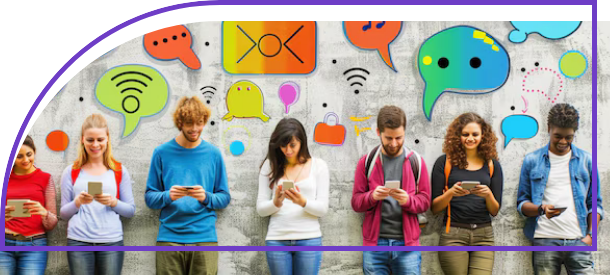
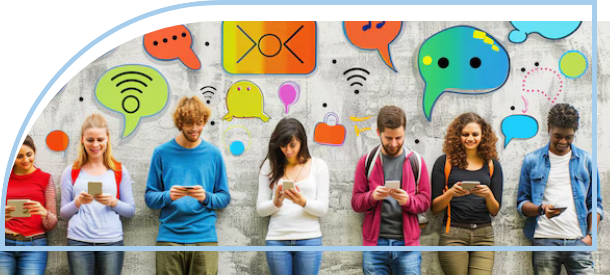
[ADD] Tema 3

Changed region(s): [[0.0, 0.0, 0.9967, 0.9309], [0.0311, 0.2036, 0.1246, 0.4945]]

diff --git a/src/views/Tema3.vue b/src/views/Tema3.vue
@@ -25,28 +25,28 @@
               img(src='@/assets/curso/temas/t3/2.png')
 
 
-          .tarjeta.color-secundario.p-3(x="15%" y="54%" numero="1")
+          .tarjeta.bg-color-3.p-3(x="14.5%" y="53%" numero="1")
             p.mb-0 #[b 1. Emisor]
             p.mb-0.titulo-cus-4 Quien origina el mensaje (por ejemplo, el asesor comercial).
-          .tarjeta.color-secundario.p-3(x="25%" y="54%" numero="2")
+          .tarjeta.bg-color-3.p-3(x="24.3%" y="53%" numero="2")
             p.mb-0 #[b 2. Receptor]
             p.mb-0.titulo-cus-4 Quien recibe e interpreta el mensaje (el cliente, el compañero de trabajo, el jefe).
-          .tarjeta.color-secundario.p-3(x="35%" y="54%" numero="3")
+          .tarjeta.bg-color-3.p-3(x="34.7%" y="53%" numero="3")
             p.mb-0 #[b 3. Mensaje]
             p.mb-0.titulo-cus-4 La información que se quiere transmitir (una propuesta de ventas, una explicación de producto, una recomendación).
-          .tarjeta.color-secundario.p-3(x="45%" y="54%" numero="4")
+          .tarjeta.bg-color-3.p-3(x="45%" y="53%" numero="4")
             p.mb-0 #[b 4. Canal]
             p.mb-0.titulo-cus-4 Medio a través del cual circula el mensaje (correo electrónico, llamada, reunión presencial, chat).
-          .tarjeta.color-secundario.p-3(x="55%" y="54%" numero="5")
+          .tarjeta.bg-color-3.p-3(x="55%" y="53%" numero="5")
             p.mb-0 #[b 5. Código]
             p.mb-0.titulo-cus-4 Sistema de signos utilizados para expresarse (lenguaje verbal, gestos, imágenes, símbolos).
-          .tarjeta.color-secundario.p-3(x="65%" y="54%" numero="6")
+          .tarjeta.bg-color-3.p-3(x="65.5%" y="53%" numero="6")
             p.mb-0 #[b 6. Contexto]
             p.mb-0.titulo-cus-4 Situación en la que ocurre la comunicación (reunión de ventas, capacitación, negociación).
-          .tarjeta.color-secundario.p-3(x="75%" y="54%" numero="7")
+          .tarjeta.bg-color-3.p-3(x="75.8%" y="53%" numero="7")
             p.mb-0 #[b 7. Retroalimentación]
             p.mb-0.titulo-cus-4 Respuesta que da el receptor, indicando si comprendió o no el mensaje.
-          .tarjeta.color-secundario.p-3(x="85%" y="54%" numero="8")
+          .tarjeta.bg-color-3.p-3(x="85.5%" y="53%" numero="8")
             p.mb-0 #[b 8. Ruido]
             p.mb-0.titulo-cus-4 Cualquier interferencia que distorsiona la comunicación (falta de atención, distracciones, problemas técnicos).
 
@@ -100,22 +100,22 @@
         .col-sm-12.col-lg-7
           ul.lista-ul--color.lista-ul--separador
             li.d-flex
-              i.fas.fa-check-circle.icon-list
+              i.fas.fa-check-circle.icon-color-2
               p.mb-0 #[b Informativa:] transmitir datos sobre productos, servicios o procesos (ej. especificaciones técnicas).
             li.d-flex
-              i.fas.fa-check-circle.icon-list
+              i.fas.fa-check-circle.icon-color-2
               p.mb-0 #[b Persuasiva:] influir en el cliente para motivar la compra o la fidelización.
             li.d-flex
-              i.fas.fa-check-circle.icon-list
+              i.fas.fa-check-circle.icon-color-2
               p.mb-0 #[b Relacional:] construir y fortalecer vínculos de confianza con clientes y colegas.
             li.d-flex
-              i.fas.fa-check-circle.icon-list
+              i.fas.fa-check-circle.icon-color-2
               p.mb-0 #[b Reguladora:] establecer normas, acuerdos y procedimientos de trabajo o negociación.
             li.d-flex
-              i.fas.fa-check-circle.icon-list
+              i.fas.fa-check-circle.icon-color-2
               p.mb-0 #[b Formativa:] capacitar, instruir o educar a clientes y compañeros sobre el uso de un producto o servicio.
             li.d-flex
-              i.fas.fa-check-circle.icon-list
+              i.fas.fa-check-circle.icon-color-2
               p.mb-0 #[b De retroalimentación:] recibir opiniones, sugerencias o reclamos para mejorar el servicio.
 
 
@@ -186,16 +186,16 @@
       p.mb-3(data-aos="fade-right") Estos medios se clasifican en:
       .row.justify-content-center.mb-0(data-aos='fade-right')
         .col-sm-12.col-md-6.col-lg-3
-          .bg-color-6.p-4.br-1.mb-cus
+          .bg-color-9.p-4.br-1.mb-cus
             h3.text-white.mb-0.text-center Medios audiovisuales
         .col-sm-12.col-md-6.col-lg-3
-          .bg-color-6.p-4.br-1.mb-cus
+          .bg-color-9.p-4.br-1.mb-cus
             h3.text-white.mb-0.text-center Medios radiofónicos
         .col-sm-12.col-md-6.col-lg-3
-          .bg-color-6.p-4.br-1.mb-cus
+          .bg-color-9.p-4.br-1.mb-cus
             h3.text-white.mb-0.text-center Medios impresos
         .col-sm-12.col-md-6.col-lg-3
-          .bg-color-6.p-4.br-1
+          .bg-color-9.p-4.br-1
             h3.text-white.mb-0.text-center Medios alternativos
 
   </template>

diff --git a/src/styles/_custom.sass b/src/styles/_custom.sass
@@ -102,7 +102,7 @@ figcaption
     .crd_hover_txt--body   
       transition: all 0.5s cubic-bezier(0.42, 0, 0.58, 1) 
       transform: translateY(0)
-      background-color: #BE79CA
+      background-color: #E5EFD6
       background-repeat: no-repeat
       background-size: cover
       h4 
@@ -115,7 +115,7 @@ figcaption
     transform: translateY(calc( 100% - 3.85rem ))
     background-color: $color-acento-botones
     h4
-      color: #FFF
+      color: $color-sistema-texto
   @media (min-width:1200px) and (max-width:1400px)  
     .crd_hover_txt--body
       p
@@ -204,6 +204,8 @@ figcaption
     background-color: #ACD5F6
   &-8
     background-color: $color-secundario
+  &-9
+    background-color: $color-primario
 
 .tarjeta-numerada.color-custom
     border-color: #B5C7D1
